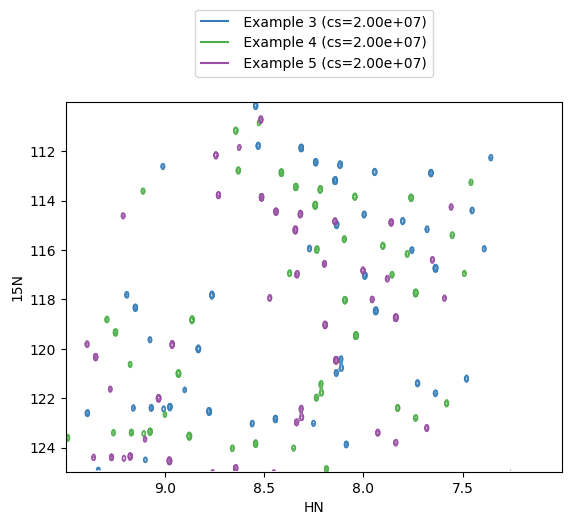
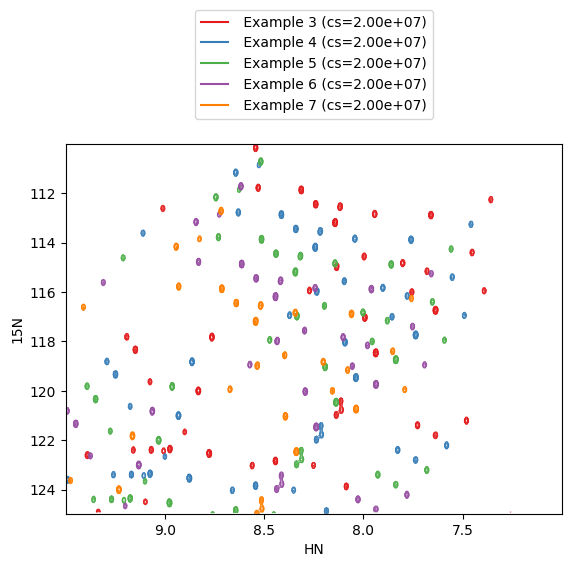
more docs

diff --git a/docs/index.md b/docs/index.md
@@ -68,12 +68,14 @@ plt.grid()
 Here is an example of how you might overlay some spectra for comparison (I'm just shifting and overlaying the same spectrum for illustrative purposes):
 
 ``` Python
+colors = plt.cm.get_cmap("Set1")
+colors = iter([colors(i) for i in range(20)])
 fig = plt.figure()
 ax = fig.add_subplot(111)
 for i in range(3):
     data.name = f" Example {i+3}"
     kwargs=dict(colors=[next(colors)], negative_contours=dict(colors="red"))
-    ax = data.plot_contour(ax, query=f"Z==0 & X_PPM > 7 & X_PPM < 9.5 & Y_PPM > 110 & Y_PPM < 125", kwargs=kwargs)
+    ax = data.plot_contour(ax, query=f"Z==0 & X_PPM > 7 & X_PPM < 9.5 & Y_PPM > 110 & Y_PPM < 125", kwargs=kwargs, show_cs=True)
     data.df["Y_PPM"] = data.df.Y_PPM + 1.0
     data.df["X_PPM"] = data.df.X_PPM + 0.1
 ax.invert_yaxis()
@@ -81,3 +83,33 @@ ax.invert_xaxis()
 ```
 
 ![overlay](static/overlay.png)
+
+## Customizing plots
+
+### Colors
+Any matplotlib colormap can be used in the following way by providing its name as a string:
+
+``` Python
+kwargs=dict(cmap="viridis", negative_contours=dict(colors="red"))
+```
+!!! note
+    If `colors` is provided then this takes precedence over any `cmap` definition.
+    e.g. if `kwargs=dict(cmap="viridis", colors="red")` then contours will be drawn `red` and `viridis` will be ignored. 
+
+### Legends
+
+If the `name` attribute of your `nmrData` object is populated with a string then this will be used to create a legend for your contour plot.
+
+``` Python
+data = nmr_to_pandas("test_pipe.ft2", pseudo_dim=0)
+data.name = "Example 1"
+```
+
+If `show_cs=True` then the value of the contour start (cs) or `threshold` value is shown in the legend.
+
+``` Python 
+data.plot_contour(ax, query="Z==0", kwargs=kwargs, threshold=1e7, show_cs=True, invert_axes=True)
+```
+
+!!! note
+    Legends are only available for contour plots using `colors` and not `cmaps`. 
